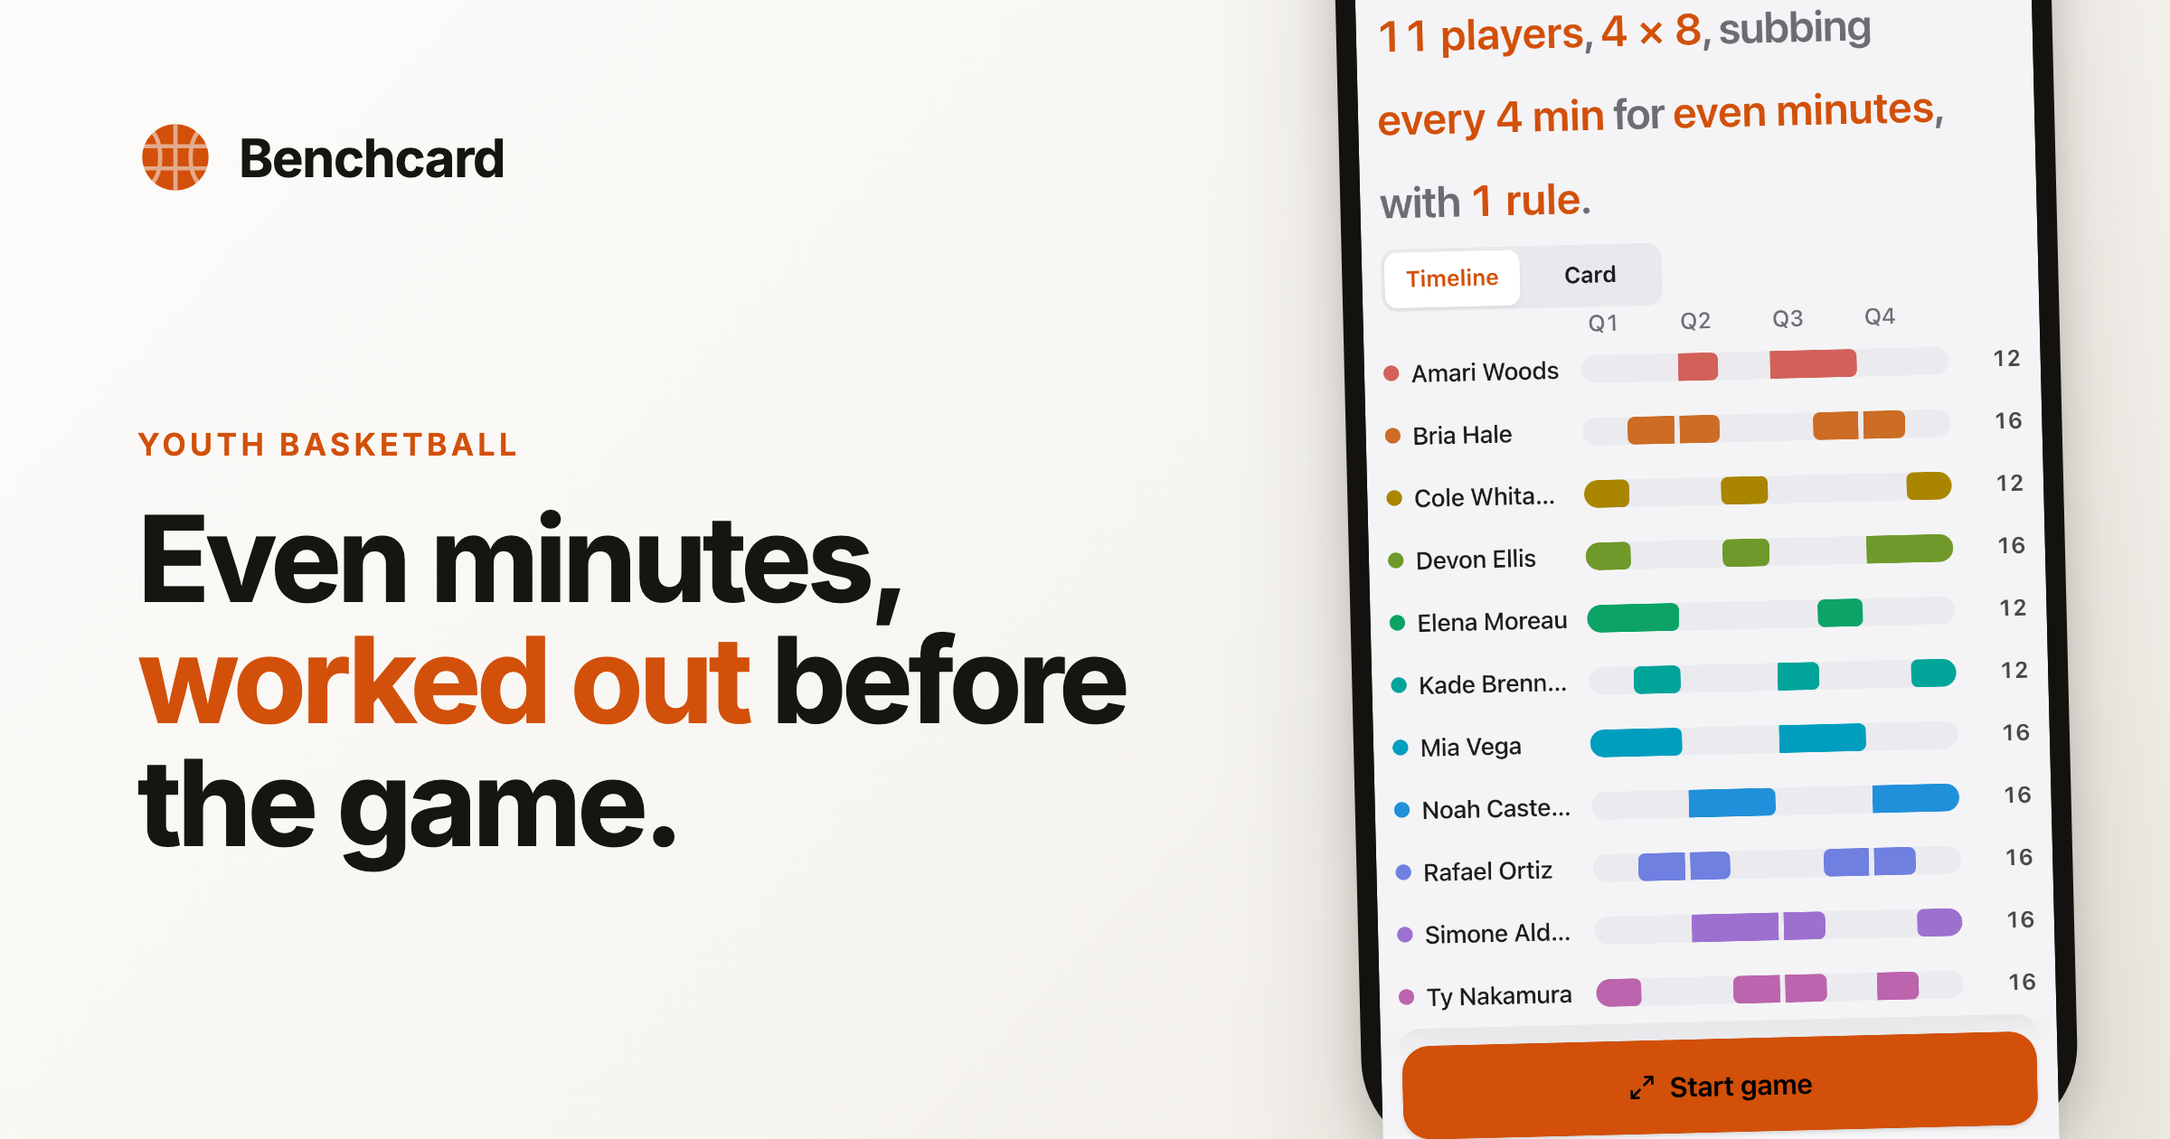
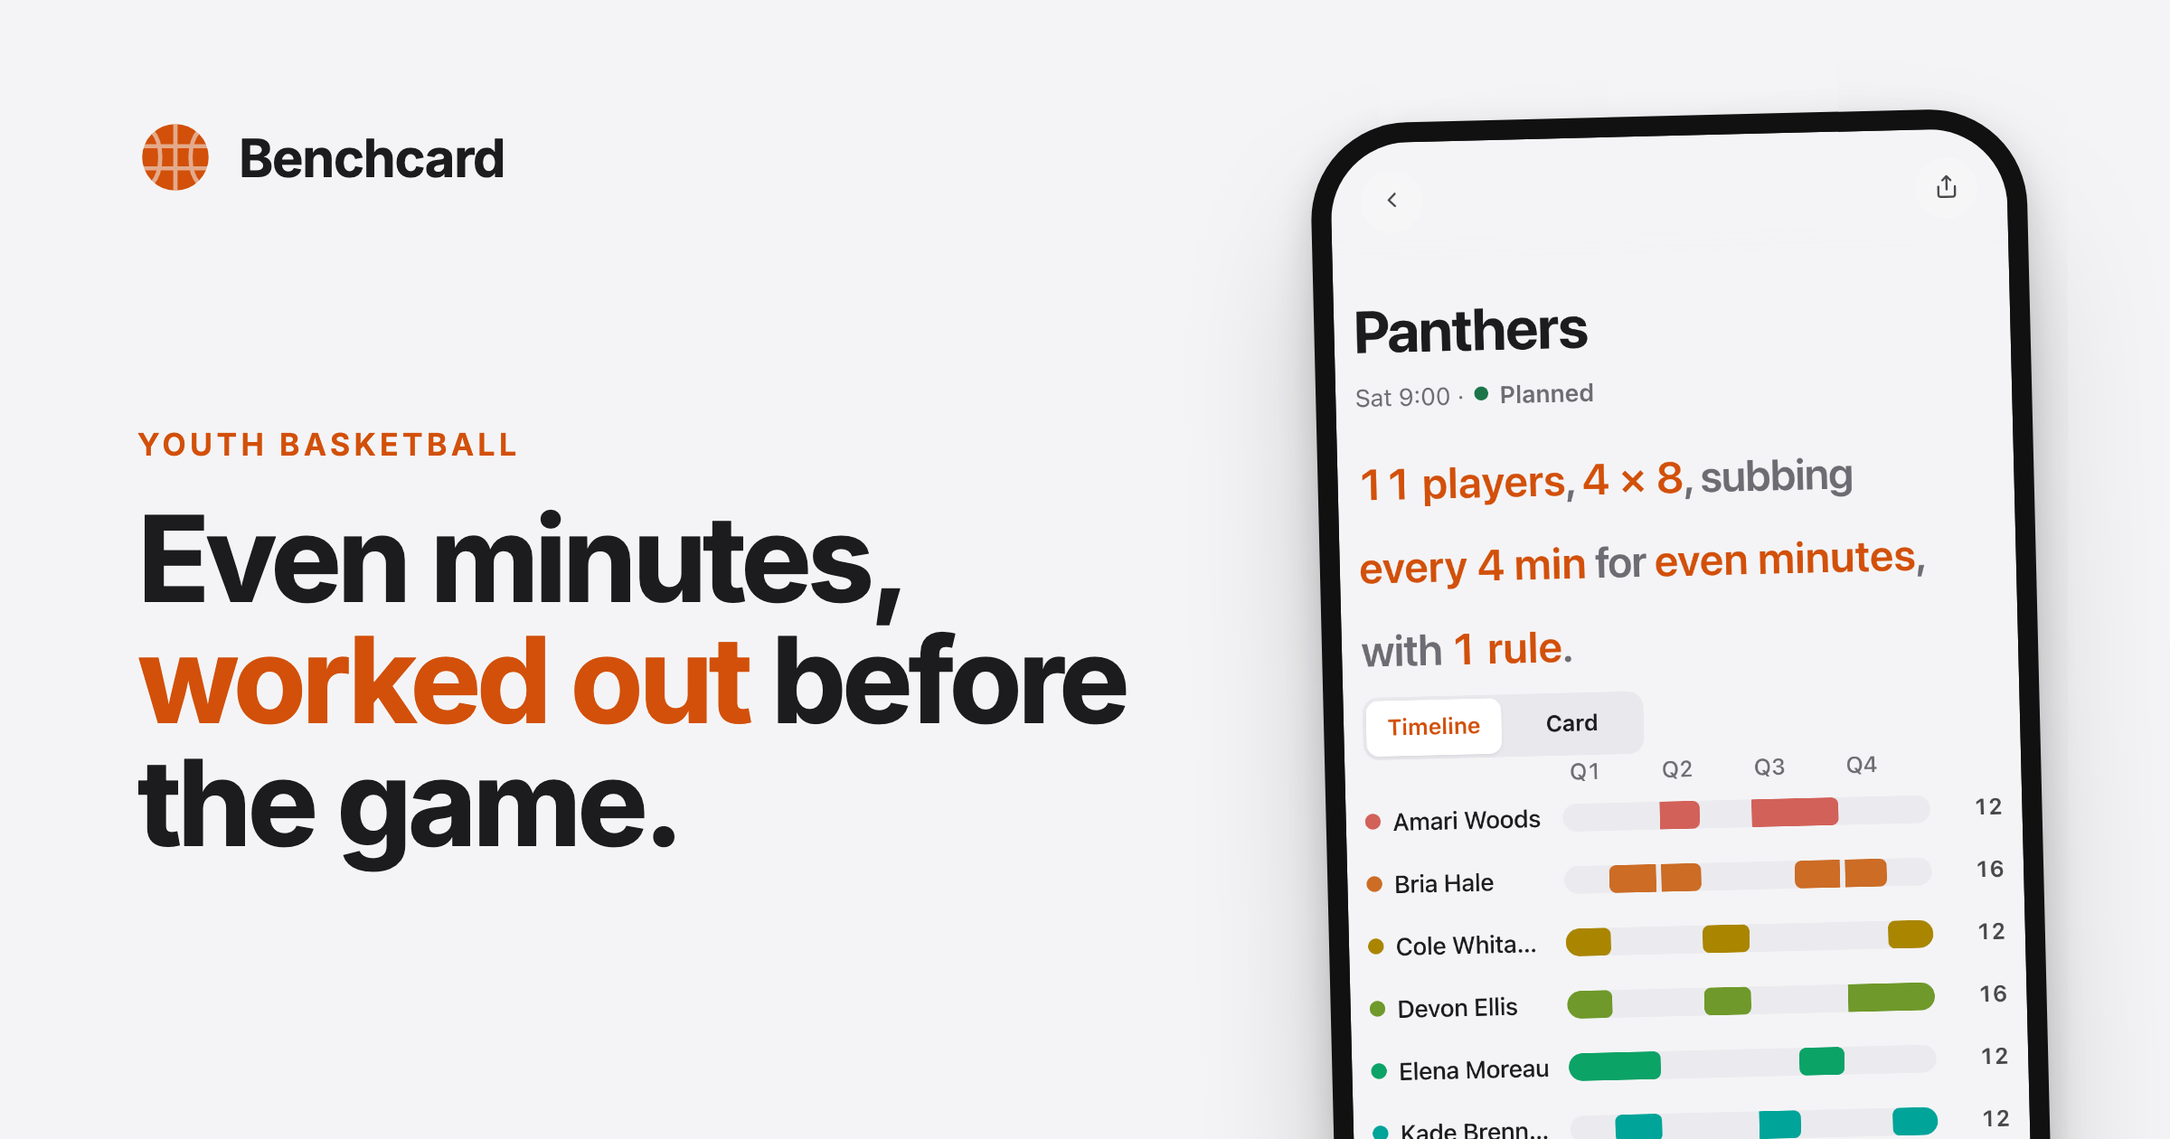
Review fixes for #75: og.png matches the approved layout, one source per fact
- og.png: flat #F4F4F6 ground, ink #1C1C1E, the phone framed on the game
  screen (title, status, sentence, Timeline) with a DOM check that throws if
  the crop drifts; 2400x1260 at 212 KB, guarded at <= 300 KB.
- About's dateline moves to 2026-09-22, so about-date passes.
- static-pages.test.js reads the avoided words from CONTEXT.md's _Avoid_
  lines instead of a second hand-typed list; charts.test.js drops the og
  size/alt literals that static-pages now owns from the PNG's own bytes.
- One SEAMS constant for the mark; one pngSize in scripts/png-size.mjs for
  og.mjs and both tests.
- Docs: og.png/--icons regeneration in operations.md; "ledger" gives way to
  the Season view.

Changed region(s): [[0.5938, 0.0, 1.0, 1.0], [0.7188, 0.2167, 0.75, 0.2476]]

diff --git a/test/static-pages.test.js b/test/static-pages.test.js
@@ -2,6 +2,7 @@ import { test } from 'node:test';
 import assert from 'node:assert/strict';
 import { readFileSync } from 'node:fs';
 import { trackedFiles } from '../scripts/spelling.mjs';
+import { pngSize } from '../scripts/png-size.mjs';
 
 /* #75: the mark went from ember to Hardwood everywhere it is drawn, and the
  * share image and its meta tags moved from 1200×630 to 2400×1260. Both are
@@ -41,22 +42,28 @@ test('no ember hex survives under app/ (outside vendor) or in scripts/og.mjs and
   assert.deepEqual(offenders, [], `ember hex left behind:\n${offenders.join('\n')}`);
 });
 
-/* PNG: 8 bytes of signature, 8 of chunk header, then width and height as
-   big-endian uint32s -- the same minimal parse test/hero-density.test.js
-   uses, for the same reason: the dimensions are the whole claim a page's
-   og:image:width/height makes, so read them off the actual file rather than
-   trust a second copy of the number. */
-function pngSize(path) {
-  const b = readFileSync(path);
-  assert.equal(b.toString('latin1', 1, 4), 'PNG', `${path} is not a PNG`);
-  return { w: b.readUInt32BE(16), h: b.readUInt32BE(20) };
-}
-
-const OG = pngSize(new URL('../app/og.png', import.meta.url));
+/* `pngSize` (scripts/png-size.mjs) is the one IHDR parse -- scripts/og.mjs
+   and test/hero-density.test.js read the same function rather than each
+   carrying its own copy, for the same reason this test reads it at all: the
+   dimensions are the whole claim a page's og:image:width/height makes, so
+   read them off the actual file rather than trust a second copy of the
+   number. */
+const OG_BYTES = readFileSync(new URL('../app/og.png', import.meta.url));
+const OG = pngSize(OG_BYTES, 'app/og.png');
 const PAGES = ['index.html', 'about.html', 'advanced.html',
   '7-player-basketball-rotation-chart.html', '8-player-basketball-rotation-chart.html',
   '9-player-basketball-rotation-chart.html', '10-player-basketball-rotation-chart.html',
   '11-player-basketball-rotation-chart.html', '12-player-basketball-rotation-chart.html'];
+
+/* #75 item 3 / Design step 3: og.png is captured sharp (DPR 2 composition,
+   DPR 3 phone) rather than downscaled or recompressed lossy to hit a byte
+   budget. The reference render the human approved was 213 KB flat; 300 KB is
+   the ceiling `docs/specs/75-pages-and-images-after-redesign.md`'s "What
+   would settle it" item 3 sets, reachable without either trick. */
+test('app/og.png is at most 300 KB', () => {
+  assert.ok(OG_BYTES.length <= 300 * 1024,
+    `app/og.png is ${(OG_BYTES.length / 1024).toFixed(1)} KB, over the 300 KB budget`);
+});
 
 test('every page\'s og:image:width/height is the size app/og.png actually is', () => {
   assert.ok(OG.w > 0 && OG.h > 0, 'app/og.png did not parse as a PNG');
@@ -95,29 +102,60 @@ function stripComments(s) {
   return s.replace(/<!--[\s\S]*?-->/g, ' ').replace(/\/\*[\s\S]*?\*\//g, ' ');
 }
 
-/* The glossary's retired words for item 6 (CONTEXT.md's own `_Avoid_` lines),
-   plus the old rule-name headings and phrases they replaced. "floor"/"ceiling"
-   are not banned bare -- "five on the floor" is correct basketball copy and
-   stays -- only the specific phrases the old minimum/cap copy used. */
-const AVOID = [
-  /\bledger\b/i,
-  /\bceiling\b/i,
-  /\bTeam tab\b/,
-  /<h3>Balanced<\/h3>/,
-  /<h3>Minutes<\/h3>/,
-  /\bshort names\b/i,
-  /\bnickname\b/i,
-  /\bplay together\b/i,
-  /\bkeep apart\b/i,
-  /\balways one on\b/i,
-  /\bnever both off\b/i,
-  /\bkeep on floor\b/i,
-  /\bminute floors?\b/i,
-  /\bfloor for the whole team\b/i,
-  /\bholds a floor\b/i,
-  /\bguarantees floor time\b/i,
-  /\bminutes ceiling\b/i,
-];
+/* CONTEXT.md's own `_Avoid_:` lines, parsed rather than retyped -- the spec
+   (`docs/specs/75-pages-and-images-after-redesign.md`, Constraints) says not
+   to re-derive the avoided words by hand. Each line sits right under a term
+   heading ("**Card name**:") and lists its retired words, comma-separated,
+   sometimes with a parenthetical qualifier ("Minutes (as a strategy name)").
+   Returns { term -> [phrase, ...] }, parenthetical stripped. */
+function parseGlossaryAvoid(md) {
+  const out = {};
+  let term = null;
+  for (const line of md.split('\n')) {
+    const heading = line.match(/^\*\*([^*]+)\*\*.*:$/);
+    if (heading) { term = heading[1].trim(); continue; }
+    const avoid = line.match(/^_Avoid_:\s*(.+)$/);
+    if (avoid && term) {
+      out[term] = avoid[1].split(',')
+        .map((p) => p.replace(/\([^)]*\)/g, '').trim())
+        .filter(Boolean);
+    }
+  }
+  return out;
+}
+
+const AVOID_BY_TERM = parseGlossaryAvoid(readFileSync(new URL('../CONTEXT.md', import.meta.url), 'utf8'));
+
+/* Item 6 names eight glossary terms whose retired words must not survive on
+   About or Advanced: the season's old word, the league minimum's old phrase,
+   the two retired strategy names, Card name's old words, and the three rule
+   names' old phrasing. CONTEXT.md carries about seventy more `_Avoid_` lines
+   for screens this change does not touch, and most of those ("out", "list",
+   "history") are ordinary English that would false-positive on real
+   About/Advanced prose if banned wholesale -- confirmed by grepping the pages
+   for every phrase below before picking this set. So TERMS is item 6's own
+   selection, not a re-derivation of it; every phrase it pulls in still comes
+   from CONTEXT.md's text rather than a second hand-typed list. */
+const TERMS = ['Season', 'League minimum', 'Even', 'By hand', 'Card name', 'Together', 'Apart', 'One of two on'];
+
+/* Two phrases from that selection are still too common to ban bare, found the
+   same way: "Minutes" (case-insensitively) matches the ordinary word
+   "minutes" throughout both pages' real copy -- CONTEXT.md's own parenthetical
+   scopes it "(as a strategy name)", and the four strategies are each their own
+   `<h3>` heading on these pages, so that is the check. "pair" matches the One
+   of two on rule's own legitimate copy ("a pair you never want resting at the
+   same time") -- the phrase item 6 actually retires is "play together", which
+   Together's own `_Avoid_` line lists separately, so "pair" is dropped rather
+   than banned bare. */
+const PHRASE_OVERRIDE = { Minutes: /<h3>\s*Minutes\s*<\/h3>/i };
+const PHRASE_DROP = new Set(['pair']);
+
+const AVOID = TERMS.flatMap((term) => (AVOID_BY_TERM[term] || [])
+  .filter((phrase) => !PHRASE_DROP.has(phrase))
+  .map((phrase) => PHRASE_OVERRIDE[phrase]
+    || new RegExp(`\\b${phrase.replace(/[.*+?^${}()|[\]\\]/g, '\\$&')}\\b`, 'i')));
+
+assert.ok(AVOID.length >= 10, `only ${AVOID.length} avoided phrases parsed from CONTEXT.md; the parser broke`);
 
 for (const page of ['about.html', 'advanced.html']) {
   test(`${page} carries none of the glossary's retired words for item 6`, () => {

diff --git a/test/charts.test.js b/test/charts.test.js
@@ -266,30 +266,21 @@ test('head hygiene matches the two pages that came before', () => {
   }
 });
 
-test('every page the site publishes describes its share card the same way', () => {
-  /* All eight pages point at the same og.png, so all eight owe it the same
-     four sub-properties. `alt` is the one that matters twice over: it is the
-     only accessible description of the card a screen reader gets when the link
-     is unfurled in a group chat, and a scraper reads its absence as a
-     lower-quality card. index.html had all four; the other seven had only
-     width and height until 2026-08-24. Byte-identical on purpose — one image,
-     one description — and the chart pages get theirs from OG_ALT in
-     scripts/charts.mjs, so a hand edit fails the disk-vs-generator test above
-     before it reaches this one. */
-  const ALT = 'Benchcard&rsquo;s game screen on a phone: the sentence &ldquo;11 players, 4 × 8, subbing every 4 min for even minutes, with 1 rule&rdquo; above a timeline of each player&rsquo;s minutes, beside the words &ldquo;Even minutes, worked out before the game.&rdquo;';
+test('every page the site publishes points at the same share image', () => {
+  /* All eight pages point at the same og.png, and get there with `og:image`,
+     its MIME type and `twitter:image` — the same URL/type sub-properties
+     regardless of what size the image is or what it depicts. The width,
+     height and alt text are the part that actually describes the image, and
+     those are `test/static-pages.test.js`'s job: it reads the size back from
+     og.png's own bytes and checks every page's alt text against every other
+     page's, rather than a literal copy of both here that would drift the
+     moment either changed and only one file got the memo. */
   for (const name of ['index.html', 'about.html', 'advanced.html', ...SIZES.map(file)]) {
     const page = read(name);
     for (const needle of [
       '<meta property="og:image" content="https://benchcard.app/og.png">',
       '<meta property="og:image:type" content="image/png">',
-      '<meta property="og:image:width" content="2400">',
-      '<meta property="og:image:height" content="1260">',
-      `<meta property="og:image:alt" content="${ALT}">`,
-      /* X reads twitter:image:alt, not the Open Graph one, so the same
-         description has to be declared twice or the card is undescribed on
-         that surface. Same string — it is still the same image. */
       '<meta name="twitter:image" content="https://benchcard.app/og.png">',
-      `<meta name="twitter:image:alt" content="${ALT}">`,
     ]) assert.ok(page.includes(needle), `${name} is missing ${needle}`);
   }
 });

diff --git a/test/hero-density.test.js b/test/hero-density.test.js
@@ -1,6 +1,7 @@
 import { test } from 'node:test';
 import assert from 'node:assert/strict';
 import { readFileSync, existsSync } from 'node:fs';
+import { pngSize as parsePng } from '../scripts/png-size.mjs';
 
 /* The About page's hero card, at both densities.
  *
@@ -24,13 +25,13 @@ const ROOT = new URL('../app/', import.meta.url);
 const about = readFileSync(new URL('about.html', ROOT), 'utf8');
 const sw = readFileSync(new URL('sw.js', ROOT), 'utf8');
 
-/* PNG: 8 bytes of signature, 8 of chunk header, then width and height as
-   big-endian uint32s. Nothing else in the file needs parsing to know the
+/* `pngSize` (scripts/png-size.mjs) is the one IHDR parse -- scripts/og.mjs
+   and test/static-pages.test.js read the same function rather than each
+   carrying its own copy. Nothing else in the file needs parsing to know the
    dimensions, and the dimensions are the whole claim a srcset makes. */
 function pngSize(file) {
   const b = readFileSync(new URL(file, ROOT));
-  assert.equal(b.toString('latin1', 1, 4), 'PNG', `${file} is not a PNG`);
-  return { w: b.readUInt32BE(16), h: b.readUInt32BE(20), bytes: b.length };
+  return { ...parsePng(b, file), bytes: b.length };
 }
 
 const hero = about.match(/<img[^>]*srcset=[^>]*>/);

diff --git a/app/about.html b/app/about.html
@@ -1185,7 +1185,7 @@ footer a { display: flex; align-items: center; min-height: 48px; }
          no date at all, so the guard is the reason the line is allowed to
          exist. The machine and human forms must agree; the guard checks that
          too. -->
-    <span>Last updated <time datetime="2026-09-19">19 September 2026</time></span>
+    <span>Last updated <time datetime="2026-09-22">22 September 2026</time></span>
   </footer>
 </div>
 

diff --git a/app/sw.js b/app/sw.js
@@ -29,7 +29,7 @@ const VERSION = '331';
    `activate` below deletes the old one. It lives HERE rather than in the test
    so that the edit updating it lands on the line below VERSION. Deleting it
    fails the suite too. */
-const SHELL = 'c3a44405ffa0';
+const SHELL = '4aebf477e53f';
 
 const CACHE = `benchcard-v${VERSION}-${SHELL}`;
 

diff --git a/docs/design-decisions.md b/docs/design-decisions.md
@@ -109,28 +109,28 @@ its alternative is an assertion, so the rejected options are kept here too.
   unlike constraints, its minutes are not swept against the current roster,
   because a kid who left in November still played those minutes in October.
 - **And it can be read, and corrected.** The **Season** view — opened from its
-  own entry on Today (#23) — is the ledger over that record: minutes this season per player,
-  most first, then one collapsible row per game holding what everyone played in
-  it. Game-first rather than a grid on purpose — twelve players by ten games is
-  120 cells, and at 390px a table of them either pans sideways or shrinks past
+  own entry on Today (#23) — shows minutes this season per player, most first,
+  then one collapsible row per game holding what everyone played in it.
+  Game-first rather than a grid on purpose — twelve players by ten games is 120
+  cells, and at 390px a table of them either pans sideways or shrinks past
   reading, so it is two lists a phone can hold. An id with no player on the
   roster is shown as *Left the team*, hollow dot and minutes intact, which is
   what "history, not instruction" looks like on screen. Each game carries a
   **Delete this game**, through `undoable`: "New day" finishes whatever is in
   the day, so tapping it twice files a game nobody played, and this is the only
   correction path there is. No levels, ever — `test/leak.test.js` covers the
-  ledger for the same reason it covers the card.
+  Season view for the same reason it covers the card.
 - **And it can be handed to someone else.** An **Export** button in the Season
-  screen's header (visible only when a game is filed) writes the ledger as one
+  screen's header (visible only when a game is filed) writes those minutes as one
   wide CSV — `Player | Sep 14 vs Falcons | … | Total`, one row per player, one
   column per game — which is the shape a coach pastes into a parent email and
-  the shape a league timesheet asks for, and the shape the ledger on screen
-  cannot be. It is the ledger's
+  the shape a league timesheet asks for, and the shape the Season view on screen
+  cannot be. It is the Season view's
   twin, so it is built in `season-view.js` next to the wording it shares
   (*Left the team* included) rather than in `backup.js`; it borrows only the
   filename stamp and the `<a download>` from there, because a **report is not a
   backup** — nothing reads it back and it never goes near `sanitize`. Columns
-  run oldest first, which is the one place it disagrees with the ledger: a
+  run oldest first, which is the one place it disagrees with the Season view: a
   spreadsheet reads left to right as time. **A player who was not at a game
   reads as an em dash, and a `0` means she was there and did not get on the
   floor** — a `minutes` map holds a key for everyone who was available, so the
@@ -138,7 +138,7 @@ its alternative is an assertion, so the rejected options are kept here too.
   turning up to games played before she joined the team and to games after she
   left. Her `Total` is still a number, and it still sums (Excel and Sheets skip
   a dash in a `SUM` exactly as they skip a blank). The count of games beside
-  her name in the ledger is the same attendance, read from `seasonShare`, so
+  her name in the Season view is the same attendance, read from `seasonShare`, so
   the two surfaces cannot say different things about the same child. RFC 4180 quoting
   (opponents and team names are free text and one of them is eventually
   `Falcons, B`), CRLF, and a UTF-8 BOM so Excel on Windows renders *Tomás*

diff --git a/docs/operations.md b/docs/operations.md
@@ -256,12 +256,13 @@ Two things address that, and they are different problems:
   human whose browser does not, and a `<noscript><style>` in the head hides
   `.app` so they get the explanation instead of a dead gray page.
 
-`og.png` (1200×630) is generated, not drawn: the real card, screenshotted from
-the running app, composed beside the headline. Regenerate it the same way if the
-card design changes — a stale preview of an old card is the one image everyone
-sees. `icon-512.png` is the brand mark full-bleed on `--accent` at 62% so it
-survives a maskable safe zone; 192 and the 180px `apple-touch-icon` are `sips`
-downscales of it.
+`og.png` (2400×1260) is generated with `node scripts/og.mjs`, not drawn: a
+composition showing the game screen on a phone, the mark in the Hardwood team color
+(read from `--tint` in `tokens.css`), and the headline. The four icon PNGs and favicon.ico are
+generated from the mark SVG at each size with the `--icons` flag. Regenerate
+og.png when the app design changes or the sample game's rule changes, and
+regenerate icons when the mark color changes — `node scripts/og.mjs --bench
+app/bench-sample.png --card app/card-sample.png --icons` does both.
 
 **Offline.** `sw.js` precaches the shell on install and serves it cache-first:
 `index.html`, `about.html`, the three stylesheets, every local module in the
@@ -329,7 +330,7 @@ day of games opening on a Today home screen, per-game constraints, cumulative
 day minutes, light and dark themes, and the printed card.
 
 It is deployed, at `benchcard.app`, with analytics on -- see "Deployment" and
-"Analytics". Season history is done too: `season-view.js` keeps the ledger, the
+"Analytics". Season history is done too: `season-view.js` keeps the Season, the
 CSV and the carryover across games. What is still not done: a foul-tally
 companion card. Offline is done: a service worker precaches the shell, so after one visit the
 app boots with the network gone -- see "Search, sharing and install". A new

diff --git a/docs/architecture.md b/docs/architecture.md
@@ -67,8 +67,8 @@ Everything below is relative to `app/`.
 - The views, one module each — `roster-view.js`, `teams-view.js` (Today: the
   team-switcher menu, the day's games, the Team and Season entries below them,
   and the active team's name at the head of Settings),
-  `season-view.js` (the Season view: the minutes ledger per player, the
-  across-the-day chart when two or more games are on today, filed games
+  `season-view.js` (the Season view: minutes per player across every filed game,
+  the across-the-day chart when two or more games are on today, filed games
   grouped by day, and the one place a game filed by mistake can be deleted),
   `game-setup.js`, `strategy.js`, `balance.js`,
   `rules.js`, `pills.js`, `plan-view.js`, `timeline.js`, `gamemode.js`,
